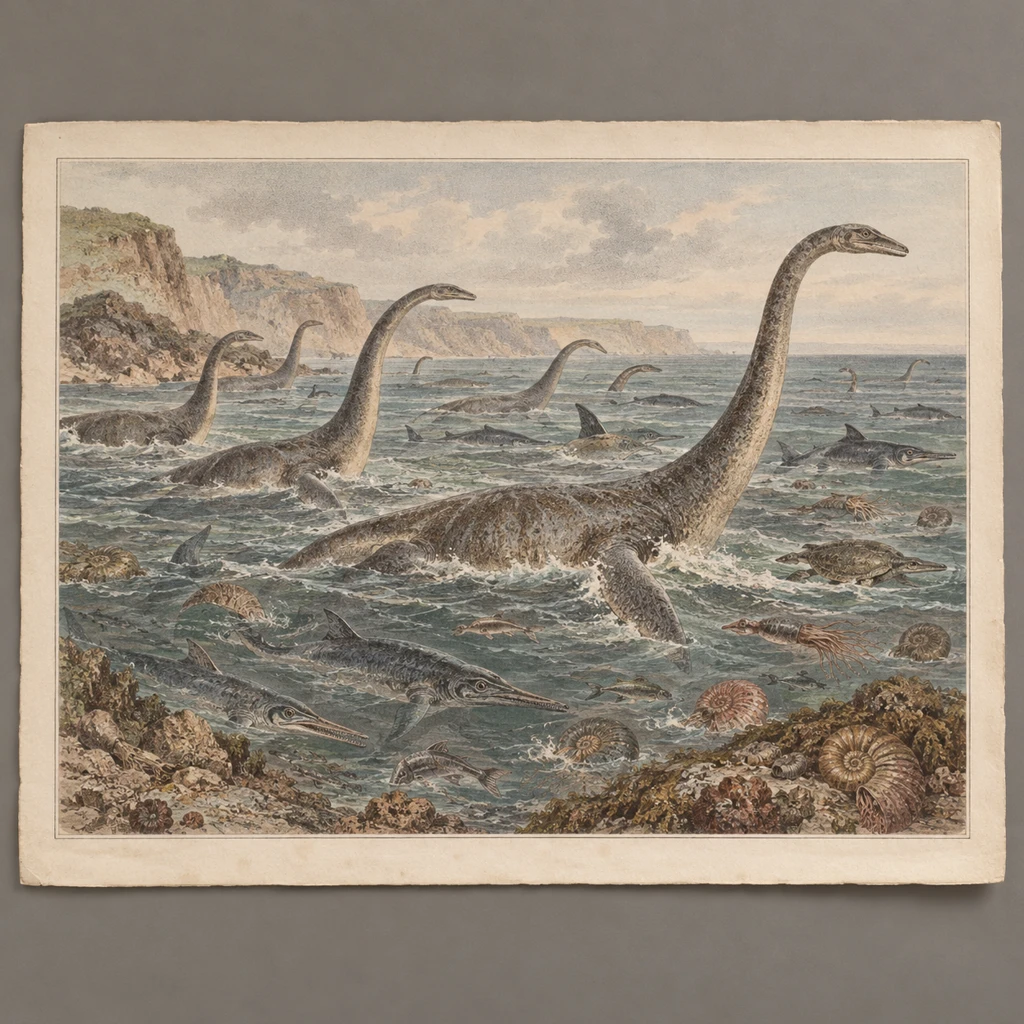
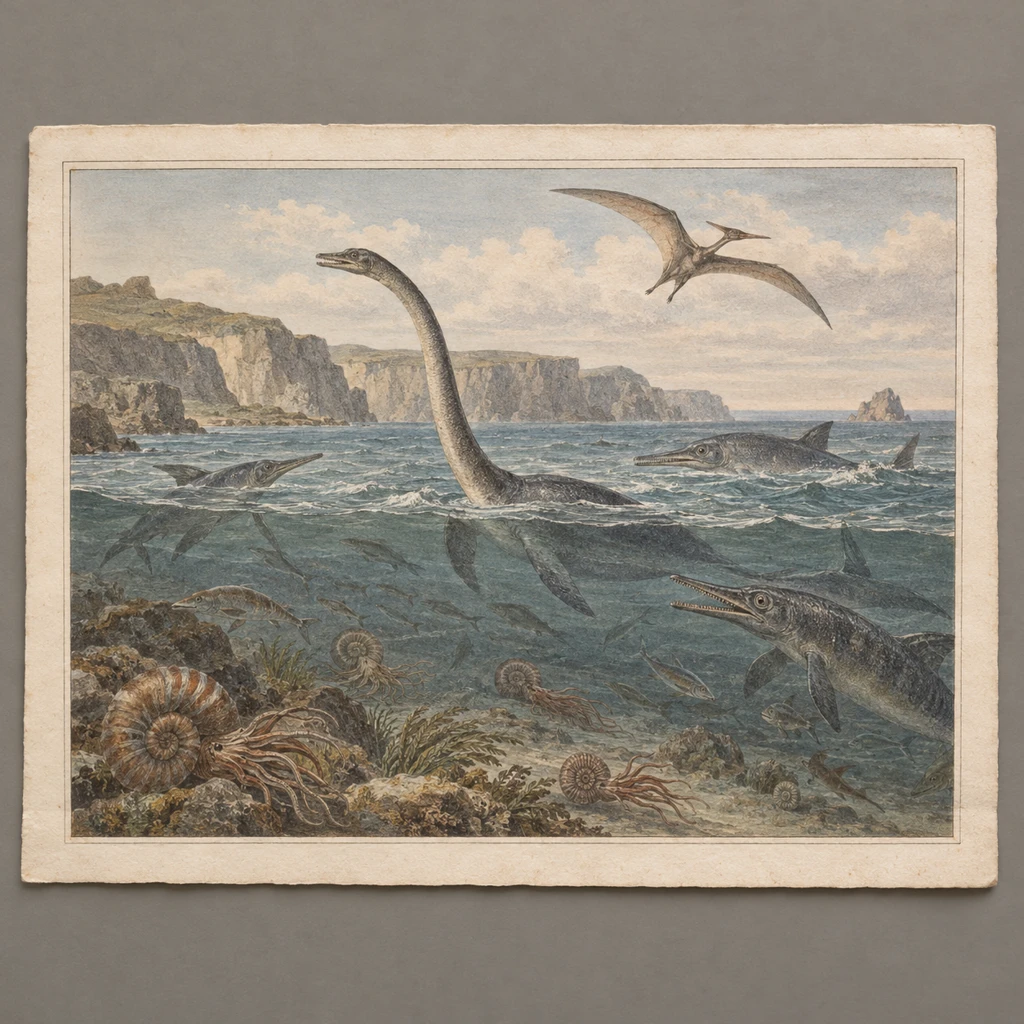
Guardian lineages v3: a wildcard per guardian, and Dino stays one plesiosaur [skip ci]
run_v3.py's wild mode gives Codex the three jumps and asks for one plate that breaks the rule on
purpose, with its reason; all four broke it the same way (the real thing, today). Dino's card now
says he is one animal; his 1830 plate is redrawn with one plesiosaur (first pass kept). 5 image
generations.

diff --git a/factory/pieces/guardian-lineages/run_v3.py b/factory/pieces/guardian-lineages/run_v3.py
@@ -1,6 +1,8 @@
 """Builds a guardian's version-3 prompt from RULE.md's card and steps, and runs Codex once.
 
-usage: python3 run_v3.py <lineages-v3.json> <guardian-id> <out dir> [steps, default 1 2 3]
+usage: python3 run_v3.py <lineages-v3.json> <guardian-id> <out dir> [steps, default 1 2 3 | wild]
+       wild: one wildcard plate only; PLATES=<dir of plates> gives it the guardian's three jumps to answer.
+       NOWILD=1 leaves the optional wildcard out (for a redo).
 
 No image is attached: Codex sees only the card and the steps (RULE.md, How it runs). It may add
 one wildcard image that breaks the rule, with a line in wild.txt (RULE.md, Room to break it).
@@ -10,7 +12,9 @@ import json, os, subprocess, sys, time
 PLATE = os.path.join(os.path.dirname(os.path.abspath(__file__)), 'prompts', '_plate.md')
 
 
-def prompt(g, steps, out):
+def prompt(g, steps, out, wild=True):
+    if steps == ['wild']:
+        return wild_prompt(g, out)
     c = g['card']
     lines = [f"Use the built-in image_gen tool (imagegen skill, built-in mode). Make one image_gen call "
              f"for each of these steps: {' '.join(map(str, steps))} (plus the optional wildcard at the end), no retries, then stop. Do not write code and do not "
@@ -32,28 +36,72 @@ def prompt(g, steps, out):
     for i in steps:
         s = g['steps'][i]
         lines.append(f"Step {i}, {s['title']} ({s['date']}). Medium: {s['medium']}. What this tradition natively makes: {s['native']}")
-    lines += ["",
+    if wild:
+        lines += ["",
               "You are free here. The rule above is a default, not a law. If you see a better idea for any step, even one that "
               f"breaks the rule, you may make ONE extra image_gen call for it (so at most {len(steps) + 1} calls in all) and copy it to "
               f"{out}/step-<N>-wild.png, where N is the step it answers. Then write one line to {out}/wild.txt: which rule it breaks "
               "and why it is better. If you have a suggestion about the rule or the guardian's card, add it to the same file. "
-              "This is optional; skip it if nothing better comes to you.",
-              "", 'Finish with one line: "done".']
+              "This is optional; skip it if nothing better comes to you."]
+    lines += ["", 'Finish with one line: "done".']
     return "\n".join(lines)
+
+
+def card_lines(g):
+    c = g['card']
+    lines = [f"Guardian: {g['name']}.", f"Essence: {c['essence']}."]
+    if c['rhymes']:
+        lines.append("Rhymes that may echo: " + "; ".join(c['rhymes']) + ".")
+    lines.append("Left behind by default: " + "; ".join(c['leave']) + ".")
+    return lines
+
+
+def wild_prompt(g, out):
+    """One wildcard plate that breaks the rule on purpose (RULE.md, Room to break it)."""
+    steps = "\n".join(f"Step {i}, {s['title']} ({s['date']}): {s['medium']}. {s.get('native', '')}" for i, s in enumerate(g['steps']) if i)
+    trail = " <- ".join(s['short'] for s in g['steps'])
+    return "\n".join([
+        "Use the built-in image_gen tool (imagegen skill, built-in mode). Make EXACTLY ONE image_gen call, no retries, then stop. "
+        "Do not write code and do not post-process the image beyond copying it.",
+        "",
+        f"This guardian's lineage ({trail}) is already drawn: the attached images are steps 1, 2 and 3 in order, each "
+        "made by the rule below. Your job is the WILDCARD: one plate that breaks that rule on purpose because you think "
+        "breaking it gives something better, truer or more surprising for this guardian. Any rule may go (the medium, the era, "
+        "the step, the essence, the one-object framing, the idea of a lineage itself), but keep the catalogue plate "
+        "presentation so it sits with the others, and keep its craft real.",
+        "",
+        "THE RULE you are free to break: carry the guardian's idea back, not its picture; each step is how that tradition, with "
+        "its own tools, conventions and knowledge, would make the guardian's subject; no shapes hidden in landscapes, no "
+        "double exposures, nothing in a later artist's manner.",
+        "",
+        *card_lines(g), "", steps, "",
+        open(PLATE, encoding='utf-8').read().strip(), "",
+        f"Copy the image to {out}/step-wild.png. Then write {out}/wild.txt with three short lines: "
+        "TITLE: a museum-label title; MEDIUM: its real medium and a date; WHY: which rule it breaks and why that is better. "
+        "If you have a suggestion about the rule or this guardian's card, add a fourth line SUGGESTION:.",
+        "", 'Finish with one line: "done".'])
 
 
 def main(data_path, gid, out, steps):
     g = next(x for x in json.load(open(data_path, encoding='utf-8'))['guardians'] if x['id'] == gid)
     os.makedirs(out, exist_ok=True)
-    text = prompt(g, steps, out)
+    text = prompt(g, steps, out, wild=not os.environ.get('NOWILD'))
+    images = []
+    if steps == ['wild']:
+        for i in (1, 2, 3):
+            src = os.path.join(os.environ['PLATES'], f"{gid}-{i}.webp")
+            dst = os.path.join(out, f"plate-{i}.png")
+            subprocess.run(['python3', '-c', f"from PIL import Image; Image.open('{src}').convert('RGB').save('{dst}')"], check=True)
+            images += ['--image', dst]
     open(os.path.join(out, 'prompt.txt'), 'w', encoding='utf-8').write(text)
     t = time.time()
     with open(os.path.join(out, 'events.jsonl'), 'w') as ev, open(os.path.join(out, 'stderr.txt'), 'w') as er:
         r = subprocess.run([os.path.expanduser('~/.local/bin/codex'), 'exec', '--json', '--ephemeral', '-s', 'workspace-write',
                             '--skip-git-repo-check', '--cd', out, '-m', 'gpt-6.1-sol', '-c', 'model_reasoning_effort="low"',
-                            '-c', 'approval_policy="never"', '-'], input=text, text=True, stdout=ev, stderr=er, cwd=out)
+                            '-c', 'approval_policy="never"', *images, '-'], input=text, text=True, stdout=ev, stderr=er, cwd=out)
     print(f"{gid}: exit {r.returncode}, {time.time() - t:.0f} s, images: {sorted(f for f in os.listdir(out) if f.startswith('step-'))}")
 
 
 if __name__ == '__main__':
-    main(sys.argv[1], sys.argv[2], sys.argv[3], [int(x) for x in sys.argv[4:]] or [1, 2, 3])
+    rest = sys.argv[4:]
+    main(sys.argv[1], sys.argv[2], sys.argv[3], ['wild'] if rest == ['wild'] else [int(x) for x in rest] or [1, 2, 3])

diff --git a/factory/pieces/guardian-lineages/plate.py b/factory/pieces/guardian-lineages/plate.py
@@ -1,6 +1,6 @@
 """Mounts one generated photograph as a catalogue plate.
 
-usage: python3 plate.py <lineages.json> <guardian-id> <step 0-3> <photo.png> <out.webp>
+usage: python3 plate.py <lineages.json> <guardian-id> <step 0-3 | wild> <photo.png> <out.webp>
 
 Every plate is the same: an off-white mount, the photograph in a fixed window, the plate number
 top left, and below it a label (guardian, step, medium, date) and the liner notes (the trail so
@@ -44,8 +44,8 @@ def wrap(draw, text, f, width):
 def main(data_path, gid, step, photo, out):
     data = json.load(open(data_path, encoding='utf-8'))
     g = next(x for x in data['guardians'] if x['id'] == gid)
-    s = g['steps'][step]
-    plate = Image.new('RGB', (W, H), MOUNT)
+    s = g['wild'] if step == 'wild' else g['steps'][step]
+    plate = Image.new('RGB', (W, H + 400), MOUNT)   # cropped to fit below
     img = Image.open(photo).convert('RGB')
     side = min(img.size)
     img = img.crop(((img.width - side) // 2, (img.height - side) // 2,
@@ -55,18 +55,21 @@ def main(data_path, gid, step, photo, out):
     plate.paste(img, (x0, y0))
     d = ImageDraw.Draw(plate)
     d.rectangle((x0 - 1, y0 - 1, x0 + WIN, y0 + WIN), outline=(200, 194, 184))
-    d.text((x0, 32), f"Pl. {ROMAN[step]}", font=font(ITALIC, 30), fill=GREY)
+    d.text((x0, 32), 'Wildcard' if step == 'wild' else f"Pl. {ROMAN[step]}", font=font(ITALIC, 30), fill=GREY)
     d.text((x0 + WIN, 32), g['name'], font=font(ITALIC, 30), fill=GREY, anchor='ra')
 
     y = y0 + WIN + 34
     tw = WIN - 240 if step == 0 else WIN   # step 0 keeps room for the approved drawing
     d.text((x0, y), s['title'], font=font(BOLD, 38), fill=INK)
     y += 52
-    for line in wrap(d, f"{s['medium']}, {s['date']}", font(SERIF, 30), tw):
+    for line in wrap(d, ', '.join(x for x in (s['medium'], s['date']) if x), font(SERIF, 30), tw):
         d.text((x0, y), line, font=font(SERIF, 30), fill=INK)
         y += 38
     y += 14
-    trail = ' ← '.join(x['short'] for x in g['steps'][:step + 1])
+    if step == 'wild':
+        trail = ' ← '.join(x['short'] for x in g['steps']) + ' · and a wildcard'
+    else:
+        trail = ' ← '.join(x['short'] for x in g['steps'][:step + 1])
     for line in wrap(d, trail, font(ITALIC, 28), tw):
         d.text((x0, y), line, font=font(ITALIC, 28), fill=GREY)
         y += 36
@@ -83,8 +86,9 @@ def main(data_path, gid, step, photo, out):
         bd = ImageDraw.Draw(box)
         bd.text((106, 222), 'approved drawing', font=font(ITALIC, 20), fill=GREY, anchor='ma')
         plate.paste(box.convert('RGB'), (x0 + WIN - 212, y0 + WIN + 24))
+    plate = plate.crop((0, 0, W, max(H, y + 40)))
     plate.save(out, 'WEBP', quality=88)
 
 
 if __name__ == '__main__':
-    main(sys.argv[1], sys.argv[2], int(sys.argv[3]), sys.argv[4], sys.argv[5])
+    main(sys.argv[1], sys.argv[2], sys.argv[3] if sys.argv[3] == 'wild' else int(sys.argv[3]), sys.argv[4], sys.argv[5])

diff --git a/factory/pieces/guardian-lineages/build_page.py b/factory/pieces/guardian-lineages/build_page.py
@@ -21,7 +21,8 @@ h1{font-weight:normal;font-size:30px;margin:0 0 6px}
 .row h2{font-weight:normal;font-size:25px;margin:0}
 .chain{font-style:italic;color:#d8cdb9;margin:2px 0 14px}
 .plates{display:grid;grid-template-columns:repeat(4,1fr);gap:14px}
-@media(max-width:900px){.plates{grid-template-columns:repeat(2,1fr)}}
+.plates.five{grid-template-columns:repeat(5,1fr)}
+@media(max-width:900px){.plates,.plates.five{grid-template-columns:repeat(2,1fr)}}
 .plates figure{margin:0}
 figcaption a{color:#e7c98f}
 .plates img{width:100%;display:block;border-radius:2px;cursor:zoom-in}
@@ -87,6 +88,14 @@ def main(data_path, plates, out):
             figs.append(f'<figure><img src="{src}" alt="{esc(s["title"])}" loading="lazy">'
                         f'<figcaption><b>{["Today", "Jump 1", "Jump 2", "Jump 3"][i]}: {esc(s["title"])}</b><br>'
                         f'{esc(s["medium"])}, {esc(s["date"])}<br>{badge}{esc(s.get("link", ""))}{redo}</figcaption></figure>')
+        if g.get('wild'):
+            w = g['wild']
+            src = f"{g['id']}-wild.webp"
+            shutil.copy(os.path.join(plates, src), os.path.join(out, src))
+            figs.append(f'<figure><img src="{src}" alt="{esc(w["title"])}" loading="lazy">'
+                        f'<figcaption><b>Wildcard: {esc(w["title"])}</b><br>{esc(w["medium"])}<br>'
+                        f'<span class="kind spiritual">breaks the rule</span> {esc(w["link"])}'
+                        + (f'<br><span class="note">{esc(w["note"])}</span>' if w.get('note') else '') + '</figcaption></figure>')
         sources = ''.join(f'<li><b>{esc(s["short"])}</b>: {esc(s.get("source", ""))}'
                           + (f' <a href="{esc(s["url"])}">{esc(s["url"])}</a>' if s.get('url') else '') + '</li>'
                           for s in g['steps'][1:])
@@ -96,7 +105,7 @@ def main(data_path, plates, out):
 <section class="row" id="{g['id']}">
   <h2>{esc(g['name'])}</h2>
   <div class="chain">{esc(chain)}</div>
-  <div class="plates">{''.join(figs)}</div>
+  <div class="plates{' five' if len(figs) > 4 else ''}">{''.join(figs)}</div>
   {note}
   <details><summary>Sources for each jump</summary><ul>{sources}</ul></details>
   <div class="react" data-pick="{data.get('pick_prefix', 'lineage-')}{g['id']}">

diff --git a/factory/pieces/guardian-lineages/RULE.md b/factory/pieces/guardian-lineages/RULE.md
@@ -21,7 +21,8 @@ drawing.
 Each guardian gets a card with three parts:
 
 1. **Essence** (always kept): what the guardian is, in a phrase taken from its charter and
-   subject. The Moon: the moon itself, the one light in the dark. Dino: a long-necked sea
+   subject, and how many: a guardian who is one figure stays one (Dino's 1830 plate first came
+   out as a herd). The Moon: the moon itself, the one light in the dark. Dino: a long-necked sea
    creature, wonder painted from careful looking.
 2. **Rhymes** (optional): at most one or two motifs that may echo from step to step, and only
    where that tradition has its own native form for them. Free in shape, scale, number and pose.
